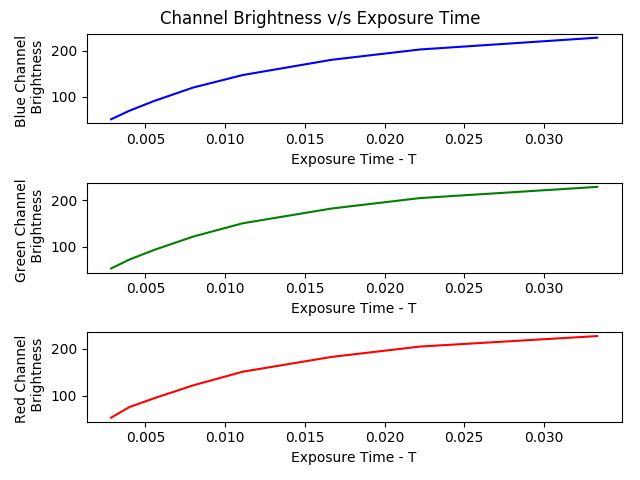
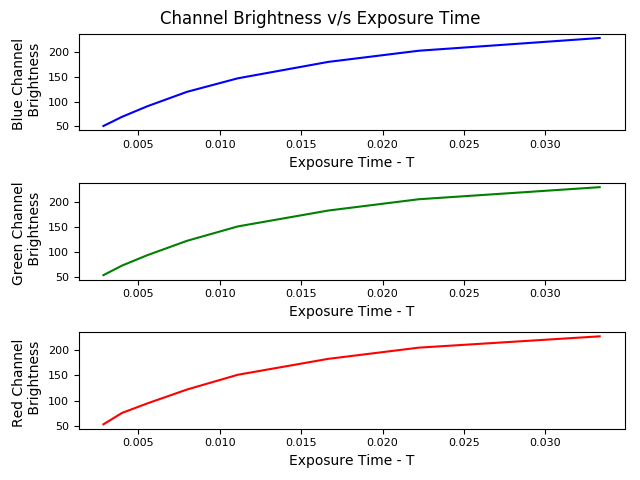
Finished Exposure Histograms
* Initial functions for histogram plots

* Fixed mistake in gamma correction

* Corrected Histogram

* Improved efficiency of histogram gen, cleaned up code

* Added HDR Pictures and changed bin count to 255

* Initial preprocess function for composition algorithms

diff --git a/hdr/gamma.py b/hdr/gamma.py
@@ -1,50 +1,68 @@
 import numpy as np
 
-from matplotlib import pylab as plb
+from matplotlib import pyplot as plb
 
 from utility import imageutil as im
 from utility import constants as ct
 from utility import util as ut
 
 
-def compute_real_brightness_of_image(orig_brightness, g):
-    # Given parameter g, simply inverts gamma correction and returns new brightness
+def invert_gamma_of_image(image, gamma_params, callback=None):
+    # requires parameter g, simply inverts gamma correction and returns new float64 image
+    # Optional callback whose Intended use is to help in conversion from float64 to other formats (like float32) ONLY
 
-    blue_corrected = np.power(orig_brightness[0], g[0])
-    green_corrected = np.power(orig_brightness[1], g[1])
-    red_corrected = np.power(orig_brightness[2], g[2])
+    if gamma_params is None:
+        raise RuntimeError("You must pass in a list of gamma parameters as [g_b, g_g, g_r]")
+    channels = im.split_channels(image)
+    corrected_channels = [np.power(channels[0], gamma_params[0]),
+                          np.power(channels[1], gamma_params[1]),
+                          np.power(channels[2], gamma_params[2])]
+    new_image = im.combine_channels(corrected_channels)
 
-    new_brightness = [blue_corrected, green_corrected, red_corrected]
+    if callback is not None:
+        new_image = callback(new_image)
 
-    return new_brightness
+    return new_image
 
 
-def invert_gamma_correction(exp_times=ct.EXPOSURE_TIMES, display=False):
+def learn_gamma_parameters_and_plot(exp_times=ct.GAMMA_EXPOSURE_TIMES, display=ct.DONT_DISPLAY_PLOT):
     # If display is set to true, then popups of the plots are shown and written to the gamma output folder
 
-    # Returns corrected brightness, original brightness, g parameters, polynomial fits
+    # Returns g parameters
 
     exp_times = np.log(exp_times)
 
-    g_b, g_g, g_r, fits, orig_brightness = learn_gamma_correction_parameters(exp_times)
+    g_b, g_g, g_r, fits, orig_brightness, images = __learn_gamma_correction_parameters__(exp_times)
     g = [g_b, g_g, g_r]
 
     # Reversing log that was applied
     orig_brightness = np.exp(orig_brightness)
-    new_brightness = compute_real_brightness_of_image(orig_brightness, g)
+    corrected_images = []
+    for image in images:
+        channels = im.split_channels(image)
+        corrected_channels = [np.power(channels[0], g_b), np.power(channels[1], g_g), np.power(channels[2], g_r)]
+        corrected_images.append(im.combine_channels(corrected_channels))
 
-    if display is True:
-        plot_brightness_of_channels(1, "ChannelBrightness.png", "Channel Brightness v/s Exposure Time",
-                                    np.exp(exp_times), orig_brightness)
-        plot_linear_fit(2, "LinearRegression.png", "Linear Fit",
-                        exp_times, np.log(orig_brightness), fits)
-        plot_brightness_of_channels(3, "CorrectedBrightness.png", "Real Channel Brightness v/s Exposure Time",
-                                    np.exp(exp_times), new_brightness)
+    [b_brightness, g_brightness, r_brightness] = im.get_average_brightness_of_images(corrected_images)
+    b_brightness = ut.sort_and_reshape_to_1D(b_brightness)
+    g_brightness = ut.sort_and_reshape_to_1D(g_brightness)
+    r_brightness = ut.sort_and_reshape_to_1D(r_brightness)
 
-    return new_brightness, orig_brightness, g, fits
+    new_brightness = [b_brightness, g_brightness, r_brightness]
+
+    # new_brightness = compute_real_brightness_of_image(orig_brightness, g)
+
+    __plot_brightness_of_channels__(1, "ChannelBrightness.png", "Channel Brightness v/s Exposure Time",
+                                    np.exp(exp_times), orig_brightness, display=display)
+    __plot_linear_fit__(2, "LinearRegression.png", "Linear Fit",
+                        exp_times, np.log(orig_brightness), fits, display=display)
+    __plot_brightness_of_channels__(3, "CorrectedBrightness.png", "Real Channel Brightness v/s Exposure Time",
+                                    np.exp(exp_times), new_brightness, display=display)
+
+    return g
 
 
-def learn_gamma_correction_parameters(exp_times):
+def __learn_gamma_correction_parameters__(exp_times):
     # Learns the gamma correction applied by the camera.
     # Reads images from the gamma correction images directory
 
@@ -56,9 +74,9 @@ def learn_gamma_correction_parameters(exp_times):
     g_brightness = ut.sort_and_reshape_to_1D(g_brightness)
     r_brightness = ut.sort_and_reshape_to_1D(r_brightness)
 
-    b_fit = __curve_fit(exp_times, b_brightness)
-    g_fit = __curve_fit(exp_times, g_brightness)
-    r_fit = __curve_fit(exp_times, r_brightness)
+    b_fit = __curve_fit__(exp_times, b_brightness)
+    g_fit = __curve_fit__(exp_times, g_brightness)
+    r_fit = __curve_fit__(exp_times, r_brightness)
 
     c_b, m_b = b_fit
     c_g, m_g = g_fit
@@ -68,10 +86,10 @@ def learn_gamma_correction_parameters(exp_times):
     g_g = 1 / m_g
     g_r = 1 / m_r
 
-    return g_b, g_g, g_r, [b_fit, g_fit, r_fit], [b_brightness, g_brightness, r_brightness]
+    return g_b, g_g, g_r, [b_fit, g_fit, r_fit], [b_brightness, g_brightness, r_brightness], images
 
 
-def __curve_fit(X, Y):
+def __curve_fit__(X, Y):
     poly = np.polynomial.Polynomial
     c_min, c_max = min(Y), max(Y)
     fit = poly.fit(X, Y, 1, full=False, window=(c_min, c_max), domain=(c_min, c_max))
@@ -79,7 +97,7 @@ def __curve_fit(X, Y):
     return fit
 
 
-def plot_brightness_of_channels(figure_number, file_name, title, X, Y, callback=None):
+def __plot_brightness_of_channels__(figure_number, file_name, title, X, Y, callback=None, display=ct.DONT_DISPLAY_PLOT):
     plb.figure(figure_number)
     for i in range(0, 3):
         channel = Y[i]
@@ -95,10 +113,12 @@ def plot_brightness_of_channels(figure_number, file_name, title, X, Y, callback=
     plb.suptitle(title)
     plb.subplots_adjust(top=0.93)
     plb.savefig(ct.GAMMA_WRITE_PATH + "/" + file_name)
-    plb.show()
+
+    if display is True:
+        plb.show()
 
 
-def plot_linear_fit(figure_number, file_name, title, X, Y, fits):
+def __plot_linear_fit__(figure_number, file_name, title, X, Y, fits, display=ct.DONT_DISPLAY_PLOT):
     plb.figure(figure_number)
 
     for i in range(0, 3):
@@ -115,4 +135,6 @@ def plot_linear_fit(figure_number, file_name, title, X, Y, fits):
     plb.tight_layout()
     plb.subplots_adjust(top=0.93)
     plb.savefig(ct.GAMMA_WRITE_PATH + "/" + file_name)
-    plb.show()
+
+    if display is True:
+        plb.show()

diff --git a/hdr/exposure.py b/hdr/exposure.py
@@ -1,0 +1,46 @@
+import numpy as np
+from matplotlib import pyplot as plt
+
+from hdr import gamma as gc
+
+from utility import imageutil as im
+from utility import constants as ct
+
+plt.rc('font', size=ct.SMALL_SIZE)          # controls default text sizes
+plt.rc('axes', titlesize=ct.SMALL_SIZE)     # fontsize of the axes title
+plt.rc('axes', labelsize=ct.MEDIUM_SIZE)    # fontsize of the x and y labels
+plt.rc('xtick', labelsize=ct.SMALL_SIZE)    # fontsize of the tick labels
+plt.rc('ytick', labelsize=ct.SMALL_SIZE)    # fontsize of the tick labels
+plt.rc('legend', fontsize=ct.SMALL_SIZE)    # legend fontsize
+plt.rc('figure', titlesize=ct.BIGGER_SIZE)  # fontsize of the figure title
+
+
+def generate_hdr_stack_histogram(file_name, gamma_params, display=ct.DONT_DISPLAY_PLOT):
+    # Loads the three images from the exposure folder and generates the plots
+    image1 = im.read(ct.EXPOSURE_READ_PATH + "/Correctly_Exposed.JPG")
+    image2 = im.read(ct.EXPOSURE_READ_PATH + "/Partly_Saturated.JPG")
+    image3 = im.read(ct.EXPOSURE_READ_PATH + "/Really_Saturated.JPG")
+
+    images = [image1, image2, image3]
+
+    __generate_histogram__(file_name, images, gamma_params, display)
+
+    return images
+
+
+def __generate_histogram__(file_name, images, gamma_params, display=ct.DONT_DISPLAY_PLOT):
+    graph_num = 0
+    for i, image in enumerate(images):
+        img = gc.invert_gamma_of_image(image, gamma_params, np.float32)
+        for j in range(0, 3):
+            graph_num = graph_num + 1
+            plt.subplot(int("33" + str(graph_num)))
+            hist = im.histogram(img, j, gamma_params)
+            plt.plot(hist, color=ct.CHANNEL_COLOUR[j])
+            plt.title(ct.CHANNEL[j] + " Channel  \nPicture " + str(i + 1))
+
+    plt.tight_layout()
+    plt.savefig(ct.EXPOSURE_WRITE_PATH + "/" + file_name)
+
+    if display is True:
+        plt.show()

diff --git a/utility/constants.py b/utility/constants.py
@@ -1,11 +1,16 @@
 # -----------------------------------------------
+# PLOT DISPLAY CONSTANTS
+DONT_DISPLAY_PLOT = False
+DISPLAY_PLOT = True
+
+# -----------------------------------------------
 # CHANNEL CONSTANTS
 CHANNEL = {0: "Blue", 1: "Green", 2: "Red"}
 CHANNEL_COLOUR = {0: 'b', 1: 'g', 2: 'r'}
 
 # -----------------------------------------------
 # GAMMA CORRECTION PARAMETERS
-EXPOSURE_TIMES = [1 / 350, 1 / 250, 1 / 180, 1 / 125, 1 / 90, 1 / 60, 1 / 45, 1 / 30]
+GAMMA_EXPOSURE_TIMES = [1 / 350, 1 / 250, 1 / 180, 1 / 125, 1 / 90, 1 / 60, 1 / 45, 1 / 30]
 
 # -----------------------------------------------
 # IMAGE PATHS
@@ -25,3 +30,13 @@ TEST_READ_PATH = 'images/test'
 # IMAGE DISPLAY TIME CONSTANTS
 IMAGE_DISPLAY_TIME = 1000
 WAIT_FOR_KEY_PRESS = 0
+
+# ----------------------------------------------
+# MATPLOTLIB CONSTANTS
+SMALL_SIZE = 8
+MEDIUM_SIZE = 10
+BIGGER_SIZE = 12
+
+# ----------------------------------------------
+# HISTOGRAM CONSTANTS
+BIN_COUNT = 256

diff --git a/hdr/composition.py b/hdr/composition.py
@@ -1,0 +1,31 @@
+from hdr import gamma as gc
+from utility import imageutil as im
+
+
+def algo1(g, image1, image2, a1, image3, a2):
+
+    img1 = image1.ravel()
+    img2 = image2.ravel()
+    img3 = image3.ravel()
+
+    print(img1.shape[0] == img2.shape[0] == img3.shape[0])
+
+    return
+
+
+def __preprocess__(image, g):
+    orig_channels = im.split_channels(image)
+    corrected_channels = gc.invert_gamma_of_image(image, g, im.split_channels)
+
+    orig_channels_raveled = __ravel__(orig_channels)
+    corrected_channels_raveled = __ravel__(corrected_channels)
+
+    return orig_channels_raveled, corrected_channels_raveled
+
+
+def __ravel__(channels):
+
+    for i in range(0, 3):
+        channels[i] = channels[i].ravel()
+
+    return channels

diff --git a/HDR.py b/HDR.py
@@ -1,14 +1,17 @@
 from hdr import gamma as gc
+from hdr import exposure as xp
+from hdr import composition as cp
 
 from utility import constants as ct
-from utility import imageutil as im
 
-exposure_times = ct.EXPOSURE_TIMES
+DISPLAY = ct.DISPLAY_PLOT
 
-new_gamma_brightness, gamma_brightness, g, fits = gc.invert_gamma_correction(display=True)
+g = gc.learn_gamma_parameters_and_plot(display=DISPLAY)
 
 print(g)
 
-new_test_brightness = gc.compute_real_brightness_of_image(gamma_brightness, g)
+images = xp.generate_hdr_stack_histogram(file_name="Histograms.png", gamma_params=g, display=DISPLAY)
 
-images = im.load_images_from_folder(ct.GAMMA_READ_PATH)
+cp.algo1(g, images[0], images[1], 1, images[2], 2)
+
+

diff --git a/utility/imageutil.py b/utility/imageutil.py
@@ -36,7 +36,6 @@ def load_images_from_folder(folder_path, callback=None):
         if img is not None:
             if callback is not None:
                 img = callback(img)
-                print(np.amax(img[0]), np.amax(img[1]), np.amax(img[2]))
             images.append(img)
     return images
 
@@ -102,5 +101,6 @@ def get_average_brightness_of_images(images, callback=None):
     return [blue_array, green_array, red_array]
 
 
-def histogram():
-    return
+def histogram(image, channel, g, bin_count=ct.BIN_COUNT):
+    end = np.power(256, g[channel])
+    return cv.calcHist([image], [channel], None, [bin_count], [0, end])
